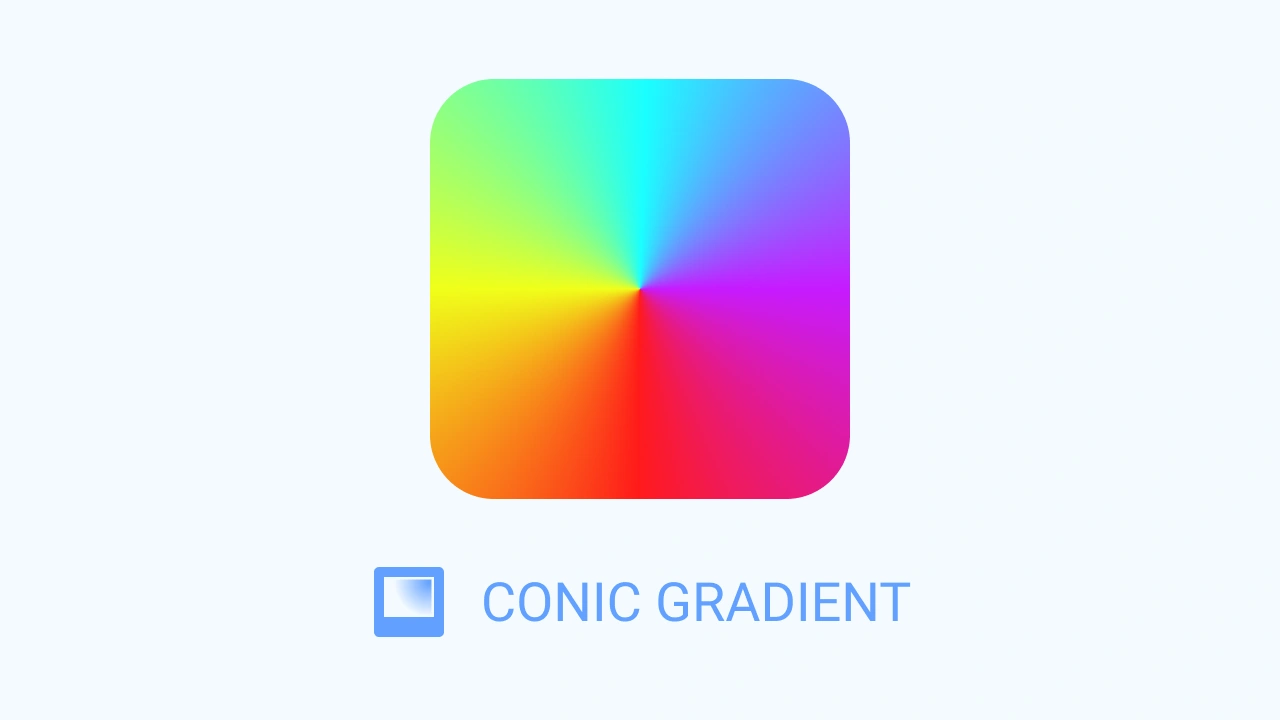
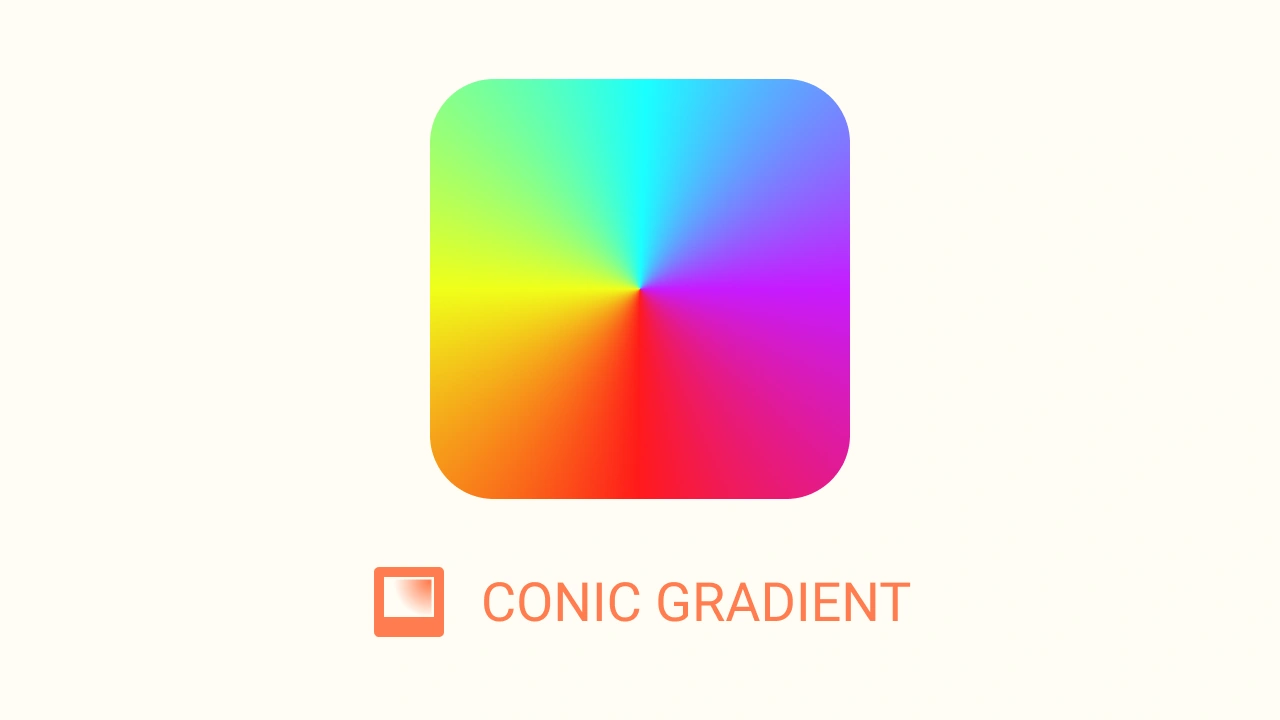
add: missing media files

Changed region(s): [[0.2812, 0.7639, 0.7188, 0.8861]]

diff --git a/releases/4.7.html b/releases/4.7.html
@@ -249,9 +249,14 @@ draft: true
 
             <!-- Rendering Cards -->
 
-            {% include_relative _components/card.html name="clearcoat_update" size="medium" %}
-
+            
             {% include_relative _components/card.html name="particles3d_scale_and_rotation" size="medium" order="reverse"%}
+            
+            <div class="sub-grid">
+                {% include_relative _components/card.html name="clearcoat_update" order="reverse" %}
+    
+                {% include_relative _components/card.html name="pass_unique_buffer" %}
+            </div>
 
         </section>
 